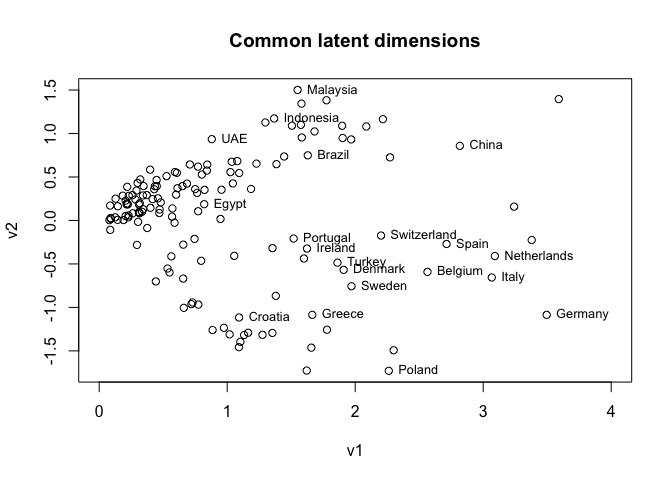
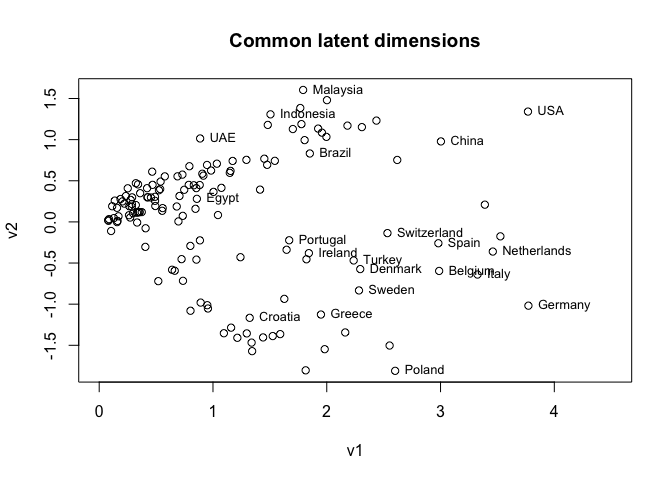
Swapped definitions for tuning parameters

diff --git a/README.md b/README.md
@@ -4,7 +4,6 @@
 # MultiNeSS
 
 <!-- badges: start -->
-
 <!-- badges: end -->
 
 The R package “multiness” implements model fitting and simulation for
@@ -48,17 +47,17 @@ fit <- multiness_fit(A,model="gaussian",self_loops=FALSE,
 # inspect fitted latent space dimensions
 # common latent space
 fit$d1
-#> [1] 23
+#> [1] 30
 # individual latent spaces
 fit$d2
-#>  [1] 3 3 4 1 2 4 3 4 8 7 3 6 3
+#>  [1]  2  4  4  3  4  8  5  5 16 11  4 12  6
 
 # plot first two common latent dimensions
 plot(fit$V_hat[,1:2],main="Common latent dimensions",
-     xlab="v1",ylab="v2",xlim=c(0,4))
+     xlab="v1",ylab="v2",xlim=c(0,4.5))
 # label a subset of the points
 countries <- dimnames(A)[[1]]
-do_label <- c(4,5,8,10,11,14,17,19,20,24,25,28,33,34,35,37,39,54,61,75)
+do_label <- c(4,5,8,10,11,14,17,19,20,24,25,28,33,34,35,37,39,41,54,61,75)
 text(fit$V_hat[do_label,1],fit$V_hat[do_label,2],
      labels=countries[do_label],pos=4,cex=.8)
 ```
